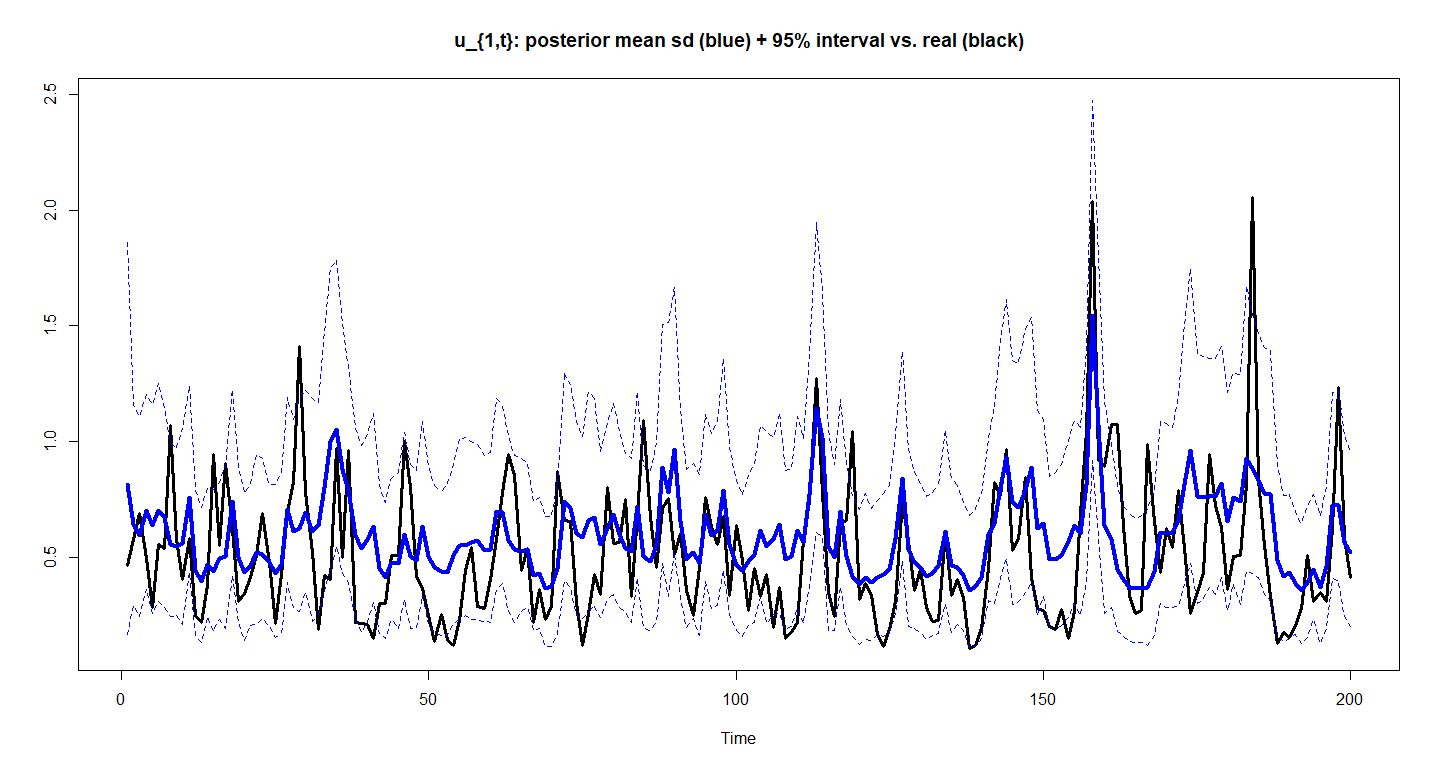
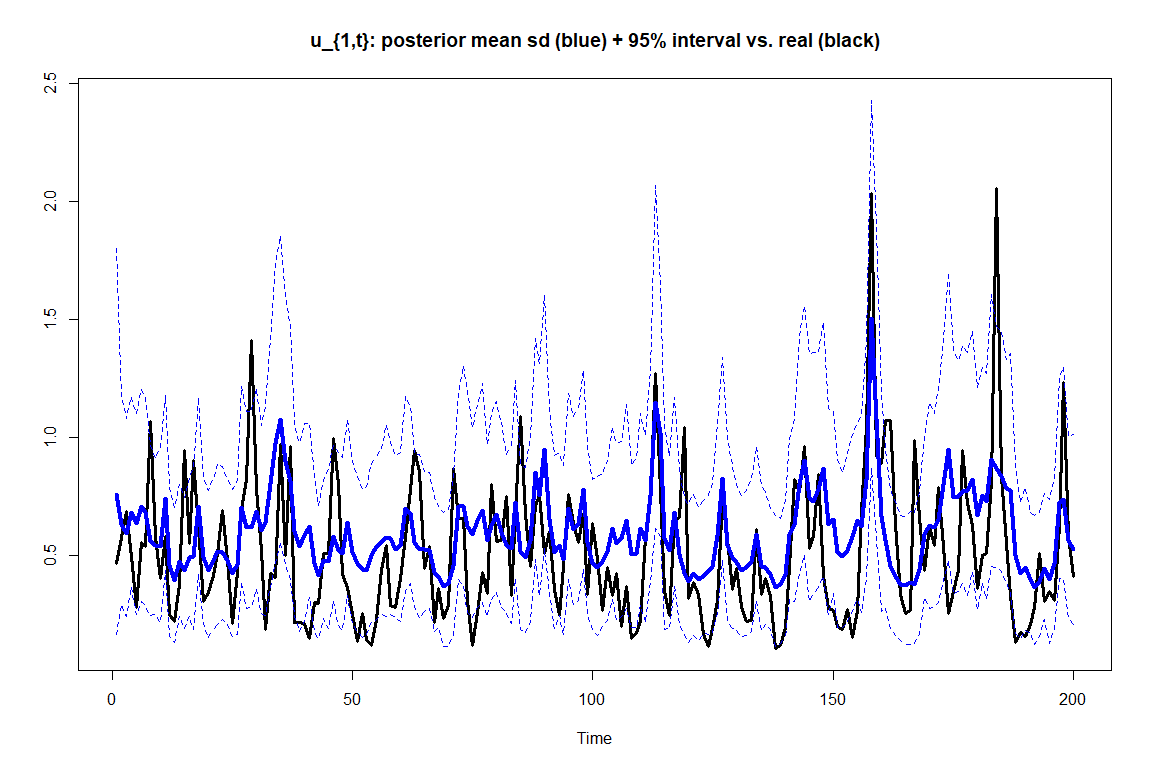
readme

diff --git a/README.md b/README.md
@@ -981,27 +981,13 @@ d_{t}' &=
 \begin{pmatrix}1 & 0\end{pmatrix} & \text{if } t > 50
 \end{cases} \\
 \end{aligned}
-$$ Simulate from the DGP
+$$
+
+Simulate from the DGP
 
 ``` r
 #remotes::install_github("markjwbecker/SteadyStateBVAR", force = TRUE, upgrade = "never", ref="dev")
 library(SteadyStateBVAR)
-#> Loading required package: rstan
-#> Warning: package 'rstan' was built under R version 4.4.3
-#> Loading required package: StanHeaders
-#> 
-#> rstan version 2.32.7 (Stan version 2.32.2)
-#> For execution on a local, multicore CPU with excess RAM we recommend calling
-#> options(mc.cores = parallel::detectCores()).
-#> To avoid recompilation of unchanged Stan programs, we recommend calling
-#> rstan_options(auto_write = TRUE)
-#> For within-chain threading using `reduce_sum()` or `map_rect()` Stan functions,
-#> change `threads_per_chain` option:
-#> rstan_options(threads_per_chain = 1)
-#> Do not specify '-march=native' in 'LOCAL_CPPFLAGS' or a Makevars file
-#> Loading required package: MASS
-#> Loading required package: LaplacesDemon
-#> Loading required package: MTS
 rm(list = ls())
 set.seed(123)
 N <- 201
@@ -1054,6 +1040,7 @@ plot.ts(yt)
 ```
 
 <img src="man/figures/README-unnamed-chunk-37-1.png" width="100%" />
+
 Lets do the usual setup. Regarding the priors for $\beta$ and $\Psi$, we
 do the same setup as before i.e. Minnesota for dynamic coefficients and
 informative normal prior on steady state coefficients.
@@ -1131,8 +1118,8 @@ Lets fit the model
 ``` r
 bvar_obj <- fit(bvar_obj,
                 iter = 2000,
-                warmup = 1000,
-                chains = 2)
+                warmup = 500,
+                chains = 1)
 ```
 
 Let see if we managed to reasonably recover the true parameters…
@@ -1140,6 +1127,36 @@ Remember here since $p=1$ we have $\beta'=\Pi_1$.
 
 ``` r
 summary(bvar_obj)
+#> beta posterior mean
+#>       
+#>        [,1]  [,2]
+#>   [1,] 0.75 -0.18
+#>   [2,] 0.12  0.75
+#> 
+#> Psi posterior mean
+#>       
+#>        [,1]  [,2]
+#>   [1,] 2.23  5.90
+#>   [2,] 5.85 10.07
+#> 
+#> A posterior mean
+#>       
+#>        [,1] [,2]
+#>   [1,] 1.00    0
+#>   [2,] 0.71    1
+#> 
+#> gamma_0 posterior mean
+#> [1] -0.76 -0.41
+#> 
+#> gamma_1 posterior mean
+#> [1] 0.44 0.82
+#> 
+#> 
+#> Phi posterior mean
+#>       
+#>        [,1] [,2]
+#>   [1,] 0.60 0.41
+#>   [2,] 0.41 0.35
 ```
 
 Looks like it works quite well! Now let us plot the estimates (posterior
@@ -1205,10 +1222,6 @@ lines(upper_sd2, col="blue", lty=2)
 ```
 
 <img src="man/figures/README-unnamed-chunk-42-2.png" width="100%" />
-
-The code seems to work.
-
-*See: inst/stochastic_volatility.stan*
 
 ## References
 
